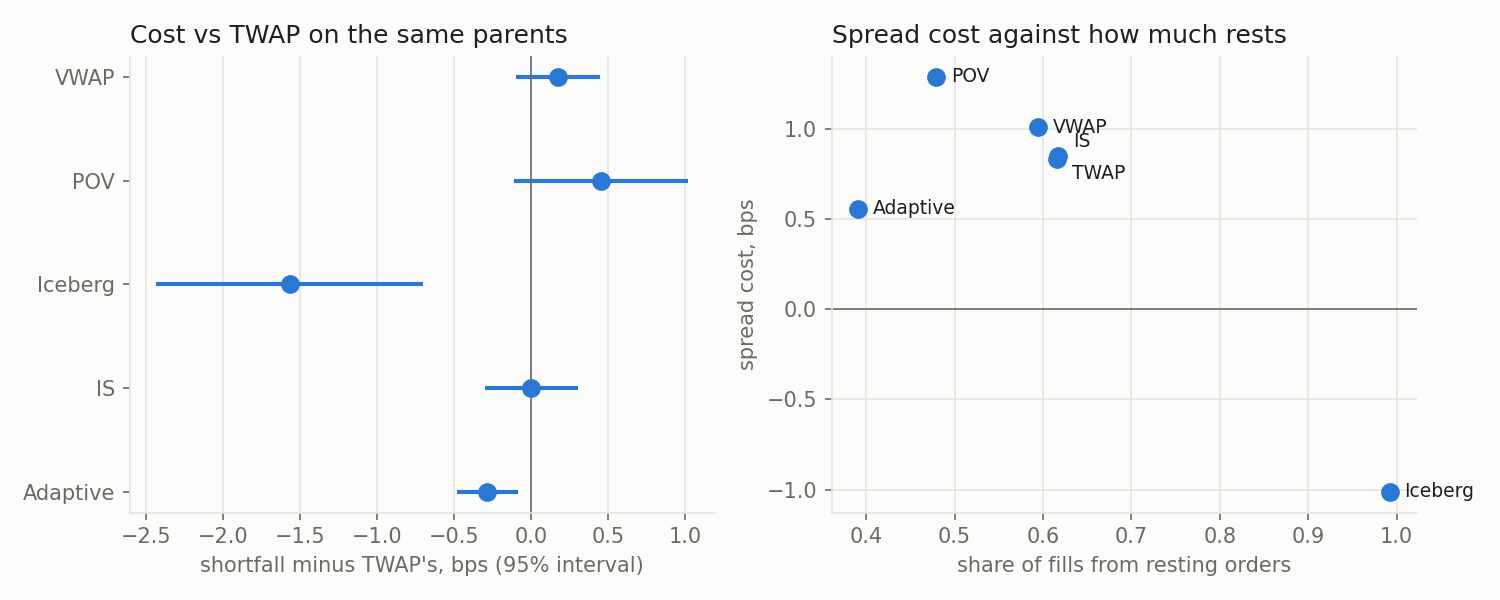
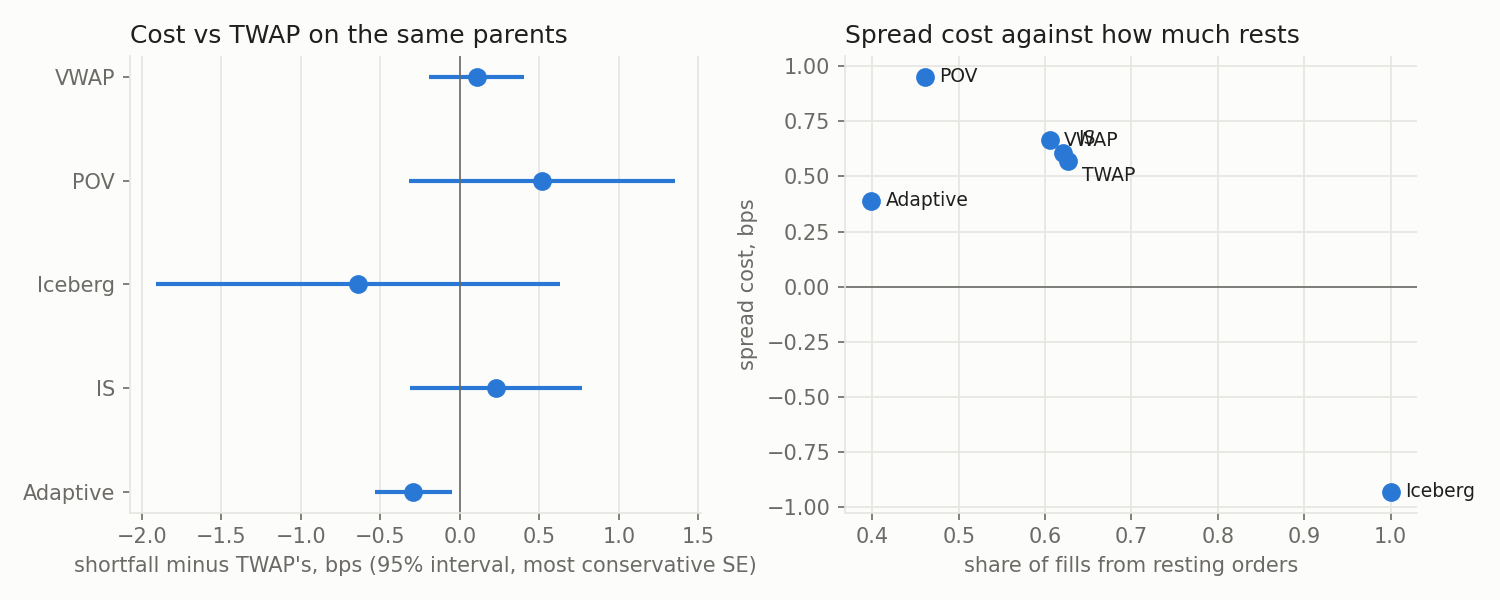
Research write-up: out-of-sample S7 and S8 results with conservative intervals

diff --git a/research/README.md b/research/README.md
@@ -7,7 +7,7 @@ Needs pandas and matplotlib.
 ## Queue position and latency (S6)
 
 ```
-./build/fill_study 01302019.NASDAQ_ITCH50 fills.csv AAPL MSFT SPY QQQ TSLA
+./build/fill_study day.itch fills.csv AAPL MSFT SPY QQQ TSLA
 python3 research/fill_study.py fills.csv
 ```
 
@@ -91,6 +91,18 @@ P(fill within 100 ms / 1 s / 10 s) for each symbol, queue bucket and latency,
 from timer joins. Each row covers `queue_lo <= shares ahead < queue_hi`; an
 empty `queue_hi` means the bucket has no upper bound.
 
+The table is a model, and S7 and S8 are scored with it, so it is fitted only
+on a **training window**: decisions from 09:30:00 to 09:32:50. Its 10 s
+horizon then ends before the **test window** opens at 09:33:00, and S7 and S8
+are scored only on parents that start in the test window. The figures above
+still describe the whole morning, because they are measurements, not inputs
+to anything scored later.
+
+```
+./build/fill_study --until 09:32:50 day.itch fills_train.csv AAPL MSFT SPY QQQ TSLA
+python3 research/fill_study.py fills.csv fills_train.csv     # figures from all, table from training only
+```
+
 ### Limits
 
 - **Size:** virtual orders are treated as size-negligible. The first trade
@@ -104,7 +116,7 @@ empty `queue_hi` means the bucket has no upper bound.
 ## Execution algos and TCA (S7)
 
 ```
-./build/algo_compare 01302019.NASDAQ_ITCH50 research/fill_prob.csv algos.csv AAPL MSFT SPY QQQ TSLA
+./build/algo_compare --from 09:33:00 day.itch research/fill_prob.csv algos.csv AAPL MSFT SPY QQQ TSLA
 python3 research/algo_compare.py algos.csv
 ```
 
@@ -120,18 +132,17 @@ child orders rest in the replayed books next to the real orders:
 
 ### The parent orders
 
-- One parent per symbol starts every 10 s from 09:30:30 to 09:36:00, 34
-  starts in all.
+- **Test window only.** One parent per symbol starts every 10 s from
+  09:33:00 to 09:36:00, 19 starts in all, after the window the fill table was
+  fitted on.
 - Each parent lasts 1 minute. Buys and sells alternate.
-- Each is sized at 5% of the volume in the minute before it. The median is
-  2,100 shares.
-- VWAP's volume curve comes from that same previous minute, so nothing looks
-  ahead.
-- In total there are 170 parents per algo.
+- Each is sized at 5% of the volume in the minute before it (past data, so
+  that is not look-ahead). The median is 1,800 shares.
+- VWAP's volume curve comes from that same previous minute.
+- In total there are 95 parents per algo.
 
 Parents that overlap in time would trade against each other's liquidity, so
-each replay runs only every sixth start. That takes 36 replays of the 751 MB
-file, in 14.7 s.
+each replay runs only every sixth start: 36 replays of the 751 MB file.
 
 ### How each algo works
 
@@ -146,74 +157,88 @@ file, in 14.7 s.
   - Adaptive follows the TWAP schedule. It crosses the whole slice when a
     hand-set score is positive. The score combines how far behind it is,
     book imbalance, S6 fill probability, spread and recent volatility.
+- **The Adaptive weights were never tuned on results.** They were written in
+  the commit that added the algos (`0be052f`), before `algo_compare` existed,
+  and haven't changed since.
 
-### Results
+### Results (test window)
 
 Mean cost per algo, in bps of the arrival mid. Positive is a cost. Every
 parent completed, so opportunity cost is 0.
 
 | algo | shortfall | spread | timing | vs VWAP | passive fills | children | duration |
 |---|---|---|---|---|---|---|---|
-| TWAP | 1.12 | 0.83 | 0.29 | 1.42 | 62% | 121 | 60 s |
-| VWAP | 1.29 | 1.01 | 0.28 | 1.56 | 59% | 109 | 60 s |
-| POV | 1.57 | 1.29 | 0.28 | 1.77 | 48% | 50 | 36 s |
-| Iceberg | -0.45 | -1.01 | 0.56 | -0.75 | 99% | 31 | 29 s |
-| IS | 1.12 | 0.85 | 0.27 | 1.39 | 62% | 127 | 60 s |
-| Adaptive | 0.84 | 0.56 | 0.28 | 1.10 | 39% | 77 | 60 s |
+| TWAP | 1.43 | 0.57 | 0.86 | 1.11 | 63% | 118 | 60 s |
+| VWAP | 1.53 | 0.66 | 0.87 | 1.23 | 61% | 109 | 60 s |
+| POV | 1.94 | 0.95 | 0.99 | 1.28 | 46% | 47 | 34 s |
+| Iceberg | 0.79 | -0.93 | 1.72 | -0.61 | 100% | 30 | 26 s |
+| IS | 1.66 | 0.61 | 1.05 | 1.33 | 62% | 125 | 60 s |
+| Adaptive | 1.14 | 0.39 | 0.75 | 0.82 | 40% | 77 | 60 s |
 
-The market's own drift over a minute is about 9 bps (the standard deviation
-of shortfall). That is far bigger than any gap between algos. So the useful
-comparison is paired: each algo minus TWAP on the same parent.
+The market's own drift over a minute is far bigger than any gap between algos.
+So the useful comparison is paired: each algo minus TWAP on the same parent.
 
-| algo | shortfall vs TWAP, bps |
-|---|---|
-| Iceberg | -1.57 ± 0.44 |
-| Adaptive | -0.28 ± 0.10 |
-| IS | 0.00 ± 0.15 |
-| VWAP | +0.17 ± 0.14 |
-| POV | +0.45 ± 0.29 |
+**How uncertain the paired gaps are.** The 95 parents are not 95 independent
+samples. The five symbols at one start share the market, and neighbouring
+starts overlap by 50 of their 60 seconds. `paired_stats.py` computes three
+standard errors:
+
+- iid, as if every parent were independent;
+- clustered by start time;
+- a moving-block bootstrap over runs of 6 starts.
+
+The table uses the largest of the three, and the 95% interval is ±1.96 of
+it. With 19 starts, that is still only a rough interval.
+
+| algo | shortfall vs TWAP, bps | 95% interval | SE: iid / clustered / block |
+|---|---|---|---|
+| Adaptive | **-0.29** | -0.53 to -0.05 | 0.12 / 0.09 / 0.05 |
+| VWAP | +0.11 | -0.19 to +0.40 | 0.15 / 0.15 / 0.10 |
+| IS | +0.23 | -0.31 to +0.77 | 0.18 / 0.28 / 0.12 |
+| POV | +0.52 | -0.32 to +1.35 | 0.30 / 0.43 / 0.16 |
+| Iceberg | -0.64 | -1.91 to +0.63 | 0.47 / 0.65 / 0.39 |
 
 ![algos](figures/algos.png)
 
 ### What the results show
 
-- **Adaptive beats TWAP by 0.28 bps (about 3 standard errors).** All of the
-  gain is in spread cost. The timing difference with TWAP is -0.01 ± 0.08 bps.
-  TWAP crosses whenever it falls behind, whatever the book looks like.
-  Adaptive crosses more often (only 39% of its fills are passive), but it
-  chooses when: tight spreads, and imbalance leaning against it. So each
-  cross is cheaper.
-- **Iceberg is cheapest in this model.** Almost every fill is passive, and
-  it earns about 1 bp of spread. Treat this as an upper bound. Iceberg
-  depends most on the fill model, which is generous to resting orders, as
-  explained under Limits.
-- **IS and VWAP match TWAP.** Over one minute, IS with kT = 2 front-loads
-  only slightly. One minute of history is a noisy volume curve for VWAP.
-- **POV is the most expensive.** At 10% participation it finishes early,
-  in 36 s, and crosses more.
-- **Prices revert after we stop.** The mid comes back about 1.2 bps within
-  10 s of the end for the schedule algos. That is temporary impact, mostly
-  from the final crossing.
+- **Adaptive beats TWAP out of sample: -0.29 bps, interval -0.53 to -0.05.**
+  - On the earlier in-sample run (the whole morning, with a fill table fitted
+    on that same morning) it was -0.28.
+  - The fill table barely moves it. Scoring the same test window with the old
+    whole-morning table gives the same -0.29. So the leakage didn't create
+    this result.
+  - Of the gap, -0.18 is spread and -0.11 timing. Adaptive crosses more often
+    than TWAP (only 40% of its fills are passive), but it chooses when:
+    tight spreads, and imbalance leaning against it. So each cross is
+    cheaper.
+- **Iceberg's in-sample "win" doesn't hold up.** It was -1.57 bps on the
+  whole morning. In the test window it is -0.64, with an interval that
+  includes zero. It also depends most on the fill model, which is generous
+  to resting orders, as explained under Limits.
+- **IS, VWAP and POV are not distinguishable from TWAP.** Over one minute, IS
+  with kT = 2 front-loads only slightly. One minute of history is a noisy
+  volume curve for VWAP. POV at 10% finishes early, in 34 s, and crosses
+  more.
 
 ### Limits
 
 - **Fill model:** passive fills follow the real queue, but the real market
   never reacts to our orders. When we fill ahead of a feed order, the feed
   order still trades in full. In effect the aggressor was that much bigger.
-  This flatters resting orders, which matters most for Iceberg. 5% of the
-  flow is small, but not zero.
+  This flatters resting orders, which matters most for Iceberg.
 - **Book drift:** our IOCs remove real orders. The feed later cancels or
   executes orders that are already gone, and the replay drops those
-  messages: 340 to 510 per replay, against 725k messages for these symbols.
-- **Adaptive weights:** they are hand-set, not fitted. Fitting them on one
-  morning and testing on the same morning would overfit. That needs more
-  days of data.
-- **Coverage:** one morning, five symbols, and 1-minute parents.
+  messages, a few hundred per replay.
+- **One morning:** the training and test windows are 3 minutes each, back
+  to back, on one morning. That separates the fit from the score. It is not
+  the same as testing on another day, which is the next step: the tools
+  already take any ITCH file.
 
 ## Smart order routing (S8)
 
 ```
-./build/sor_compare 01302019.NASDAQ_ITCH50 research/fill_prob.csv sor.csv AAPL MSFT SPY QQQ TSLA
+./build/sor_compare --from 09:33:00 day.itch research/fill_prob.csv sor.csv AAPL MSFT SPY QQQ TSLA
 python3 research/sor_compare.py sor.csv
 ```
 
@@ -233,9 +258,10 @@ books add up, level by level, to the single-venue replay.
 
 ### The parent orders and modes
 
-For each symbol, a parent starts every 5 s from 09:30:30 to 09:37:00, and
-buys and sells alternate. Each is sized at 1% of the previous minute's volume
-(median 400 shares). That gives 395 parents. Each parent runs in four modes:
+For each symbol, a parent starts every 5 s from 09:33:00 to 09:37:00 (the
+test window, after the fill table's training window), and buys and sells
+alternate. Each is sized at 1% of the previous minute's volume (median 300
+shares). That gives 245 parents. Each parent runs in four modes:
 
 - **Take:** route the whole order as IOCs, and route the remainder again once
   every child is back.
@@ -250,35 +276,39 @@ buys and sells alternate. Each is sized at 1% of the previous minute's volume
     rebate and spread earned, against the cost of crossing later.
   - The naive router always rests where the rebate is biggest (B).
 
-### Results
+### Results (test window)
 
-Paired results, smart minus naive, all-in cost in bps of the arrival mid:
+Paired results, smart minus naive, all-in cost in bps of the arrival mid.
+Errors are the largest of iid, clustered by start time, and a block bootstrap
+over 12 starts (one minute), as in S7.
 
-| | cost | of which fees | other |
-|---|---|---|---|
-| taking | **-0.039 ± 0.004** | -0.042 ± 0.004 | done in 1.03 rounds instead of 2.35 |
-| resting | +0.116 ± 0.038 | +0.018 ± 0.003 | 3.0 points fewer passive fills |
+| | cost | 95% interval | of which fees | other |
+|---|---|---|---|---|
+| taking | **-0.046** | -0.056 to -0.036 | -0.046 | done in 1.01 rounds instead of 2.24 |
+| resting | +0.136 | +0.009 to +0.263 | +0.029 | 4.5 points fewer passive fills |
 
 ![sor](figures/sor.png)
 
 - **Smart taking wins, by fees alone.** The naive router looks only at
   price. B is the deepest venue, so it most often shows the best price, and
   B costs 0.30¢ to take from. The smart router takes C first at the same
-  price, because C pays takers. It sends
-  38% of its shares to C, against 19% for naive. The prices paid are the
-  same, so the whole 0.04 bps gain is fees.
+  price, because C pays takers. It sends 39% of its shares to C, against 18%
+  for naive. The prices paid are the same, so the whole gain is fees. The
+  venues and fees are my own construction, so this shows the router does
+  what it is built to do, not a market finding.
 - **Smart taking finishes in one round.** It splits across venues at once.
-  Naive takes one venue's touch per round, so it needs about 2.4 rounds.
-  This barely matters here, because the replayed quotes rarely vanish
-  within a round trip. Even on C, 99% of IOC shares filled.
-- **Smart resting loses to rebate chasing.** It is 0.12 bps worse, and the
-  difference is real. The S6 fill table was measured on one consolidated
-  book, where every aggressor reaches the front of the queue. In this
-  replay, a real aggressor only trades on the venue that held its order in
-  the feed. So a thin venue (A) gets few fills even when its queue is short.
-  The table, read as queue / flow share, is far too optimistic there.
-  Correcting the table online from our own fills halved the gap in passive
-  fills, but it did not close it.
+  Naive takes one venue's touch per round, so it needs about 2.2 rounds. This
+  barely matters here, because the replayed quotes rarely vanish within a
+  round trip.
+- **Smart resting loses to rebate chasing.** It is 0.14 bps worse.
+  - The S6 fill table was measured on one consolidated book, where every
+    aggressor reaches the front of the queue. In this replay, a real
+    aggressor only trades on the venue that held its order in the feed. So a
+    thin venue (A) gets few fills even when its queue is short, and the
+    table, read as queue / flow share, is far too optimistic there.
+  - Fitting the table on the training window made smart resting look worse,
+    not better: +0.136, against +0.103 when the test window is scored with
+    the old whole-morning table. The leak had flattered it by about 0.03 bps.
 
 ### What this shows
 
@@ -296,5 +326,5 @@ Paired results, smart minus naive, all-in cost in bps of the arrival mid:
   schedule.
 - **Market data delay:** the router reads all three books instantly. Only
   orders pay latency. Quote fading and latency arbitrage are not modeled.
-- **Coverage:** one morning and five symbols. There are 395 parents per
-  mode, each run as 1 replay per mode over 3 venues.
+- **Coverage:** one morning and five symbols. There are 245 parents per
+  mode in the test window, each run as 1 replay per mode over 3 venues.
